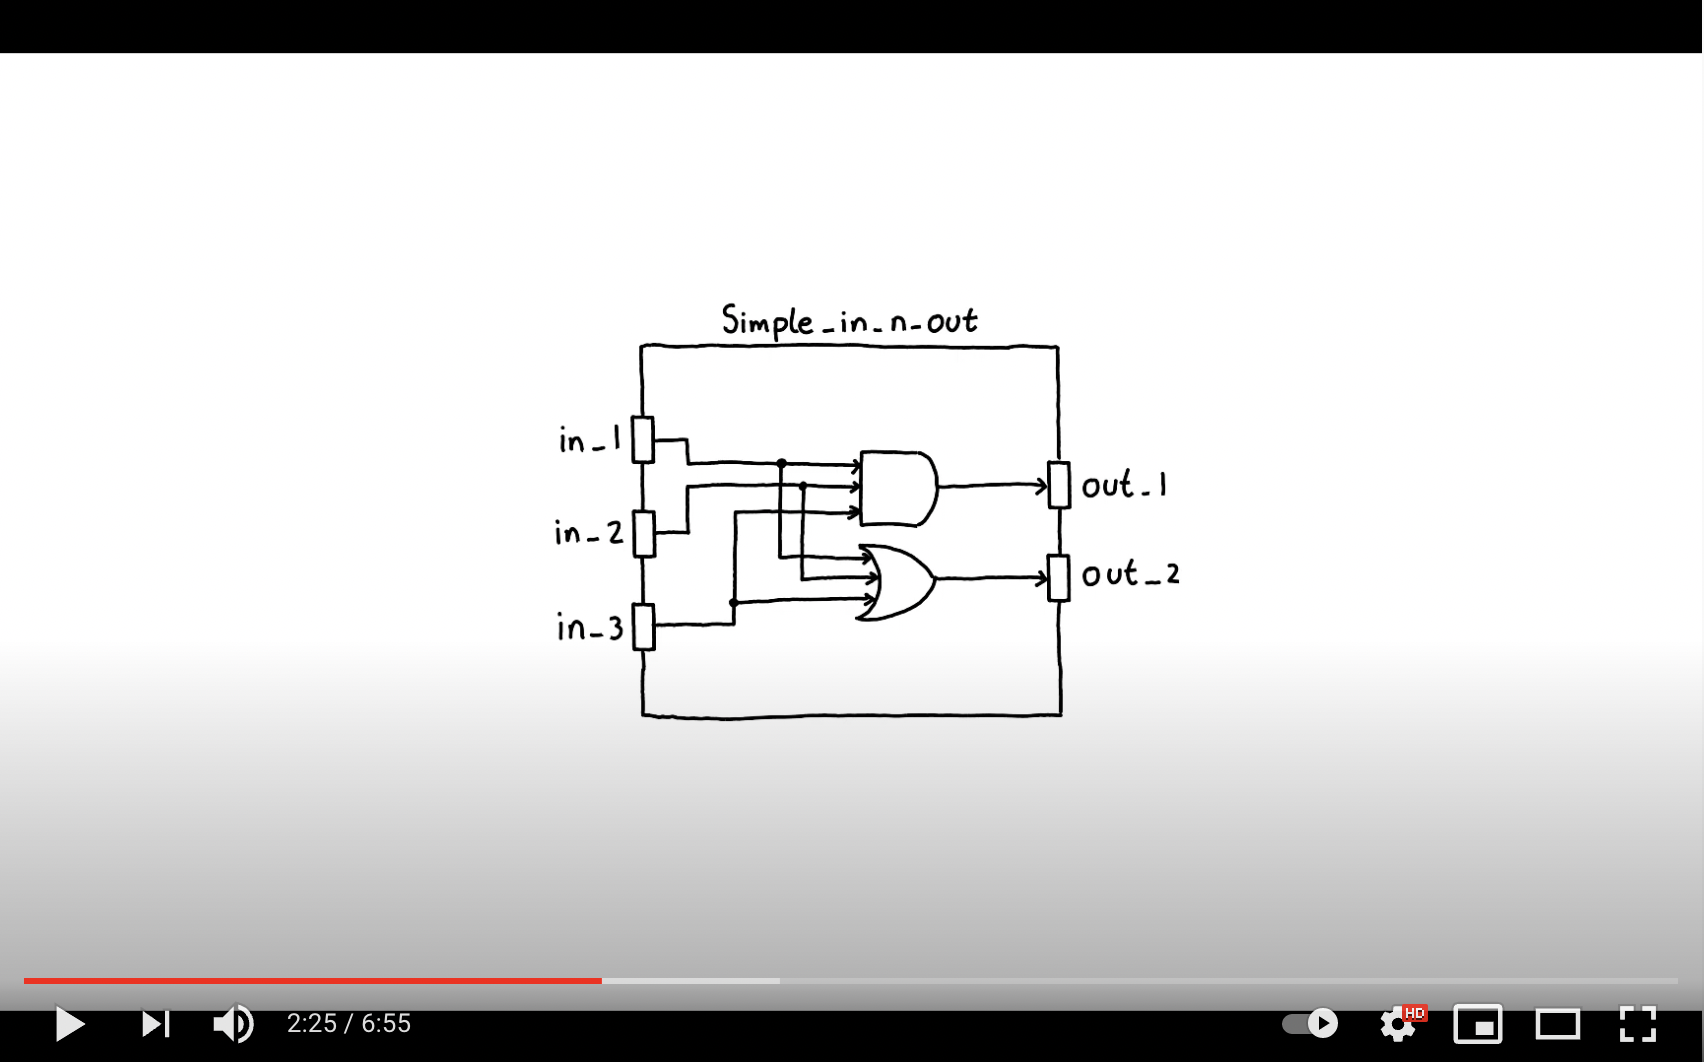
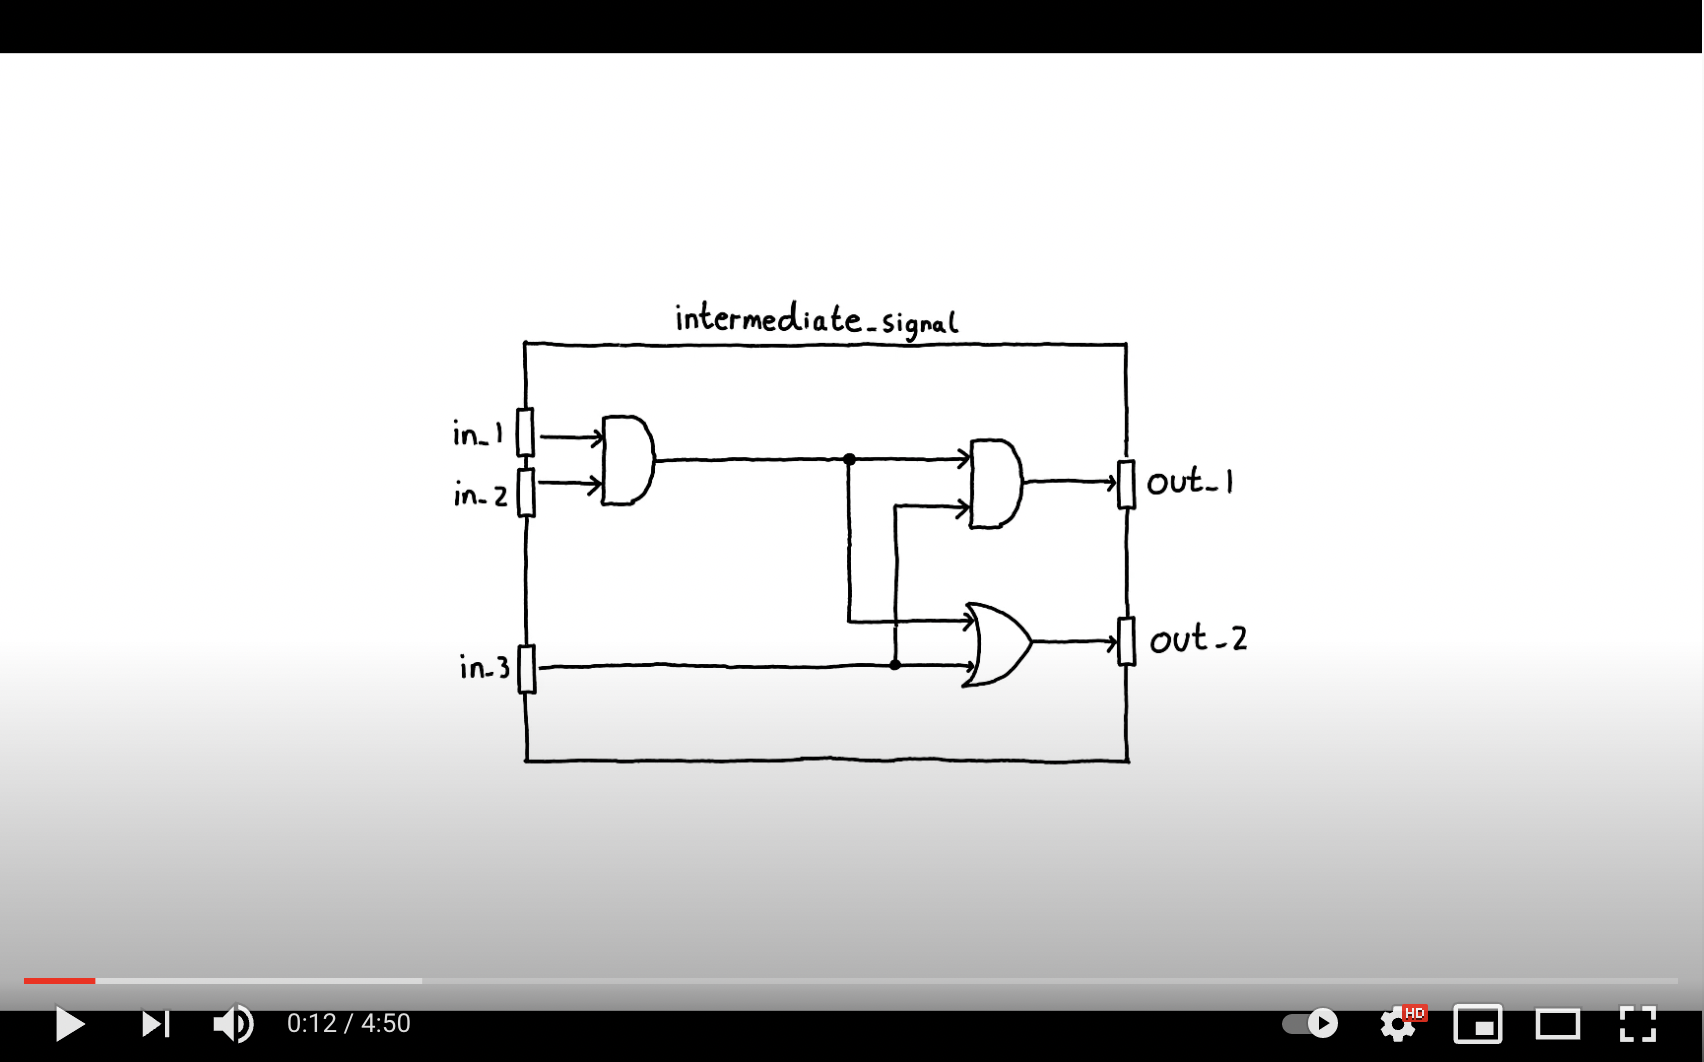
Completed the internal signals mini lesson

diff --git a/lessons/2-intermediate_signal/README.md b/lessons/2-intermediate_signal/README.md
@@ -7,12 +7,17 @@
 
 ## Video
 <p align="center">
-	<a href="http://www.youtube.com/watch?feature=player_embedded&v=fnoMnokP9mI
+	<a href="http://www.youtube.com/watch?feature=player_embedded&v=ljmm6S6k2Aw
 	" target="_blank"><img src="misc/video_thumb.png" 
 	alt="Lesson Video" width="510" height="360" border="10" /></a>
 </p>
 
 ## Exercise
 
-### Exercise hints
+<p align="center">
+  <img width="500" src="misc/exercise.png" />
+</p>
+
+Consider the adaption to our circuit above. Using an extra internal signal adapt the HDL code in ``intermediate_signal.sv`` to match the diagram of the circuit. 
+
 
